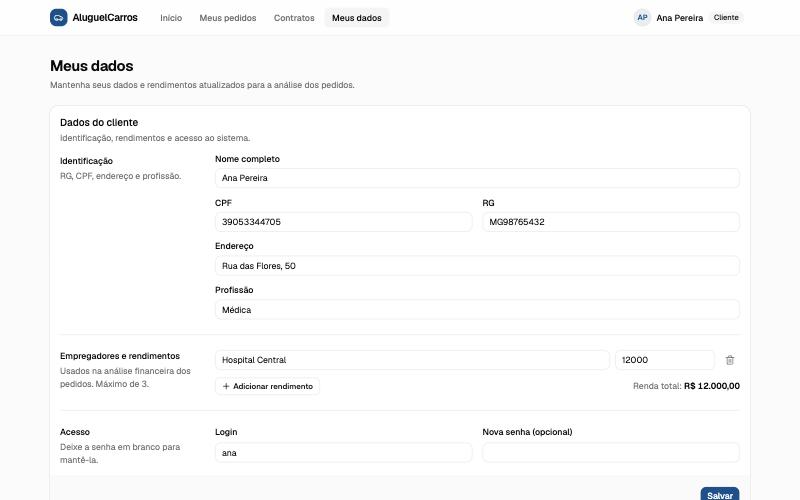
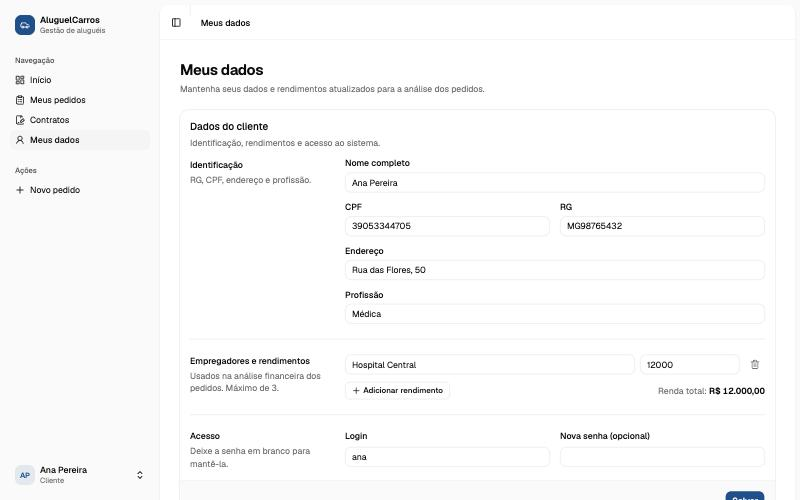
Atualiza README, diagrama de pacotes e capturas com o novo layout

diff --git a/README.md b/README.md
@@ -100,7 +100,9 @@ stateDiagram-v2
 - 📊 **Análise financeira:** agentes filtram os pedidos por status e aprovam/reprovam com parecer, vendo a renda total e os rendimentos do cliente.
 - 📃 **Contratos:** execução do contrato de pedidos aprovados, registrando o automóvel em nome do cliente, da empresa ou do banco.
 - 🏦 **Contrato de crédito:** bancos concedem crédito ao contrato; a parcela é calculada pela Tabela Price.
-- 🏠 **Painel inicial:** resumo de pedidos por status e atalhos para as ações de cada perfil.
+- 📊 **Painel inicial (dashboard):** indicadores (pedidos, valor contratado e financiado) e gráficos de pedidos por status e de contratos por mês.
+- 🧭 **Linha do tempo do pedido:** etapas criação → análise → contrato → crédito, com datas e responsáveis.
+- 🗂 **Navegação lateral:** barra lateral recolhível com ícones por seção (gaveta no celular).
 
 ---
 
@@ -115,6 +117,7 @@ stateDiagram-v2
 * **Estilização:** Tailwind CSS 4
 * **Componentes de interface:** [shadcn/ui](https://ui.shadcn.com/) (Radix UI) — Button, Card, Table, Tabs, Badge, Alert, AlertDialog, RadioGroup, DropdownMenu
 * **Ícones e notificações:** Lucide React e Sonner (toasts)
+* **Gráficos:** Recharts (componente Chart do shadcn/ui)
 * **Gerenciamento de Estado:** Context API (`AuthProvider`)
 * **Build Tool:** Vite 6
 
@@ -396,6 +399,7 @@ java -jar target/aluguel-carros-0.0.1-SNAPSHOT.jar
         ├── /components                # 🧱 Componentes reutilizáveis
         │   └── /ui                    # 🎨 Componentes shadcn/ui (Button, Card, Table...)
         ├── /lib                       # 🔧 utils (função cn do shadcn/ui)
+        ├── /hooks                     # 🎣 use-mobile (usado pela barra lateral)
         ├── /context                   # 🔐 Autenticação (Context API)
         ├── /routes                    # 🧭 Rotas públicas e protegidas
         ├── /services                  # 🔌 Chamadas HTTP (Axios)
@@ -410,16 +414,16 @@ java -jar target/aluguel-carros-0.0.1-SNAPSHOT.jar
 
 | Tela | Captura de Tela |
 | :---: | :---: |
-| **Login** | **Painel inicial (Banco)** |
+| **Login** | **Painel inicial com gráficos (Banco)** |
 | <img src="docs/imagens/login.jpg" alt="Tela de login" width="400px"> | <img src="docs/imagens/home-agente.jpg" alt="Painel inicial do agente" width="400px"> |
-| **Pedidos (visão do agente)** | **Detalhe do pedido com parecer** |
+| **Pedidos (visão do agente)** | **Detalhe do pedido (linha do tempo)** |
 | <img src="docs/imagens/pedidos-agente.jpg" alt="Lista de pedidos com filtros por status" width="400px"> | <img src="docs/imagens/pedido-detalhe.jpg" alt="Detalhe do pedido" width="400px"> |
 | **Contrato e crédito** | **Contratos** |
 | <img src="docs/imagens/contrato-credito.jpg" alt="Contrato com crédito concedido" width="400px"> | <img src="docs/imagens/contratos.jpg" alt="Lista de contratos" width="400px"> |
 | **Novo pedido (cliente)** | **Meus dados e rendimentos (cliente)** |
 | <img src="docs/imagens/novo-pedido.jpg" alt="Novo pedido de aluguel" width="400px"> | <img src="docs/imagens/meus-dados.jpg" alt="Dados e rendimentos do cliente" width="400px"> |
-| **Automóveis (agente)** | |
-| <img src="docs/imagens/automoveis.jpg" alt="Cadastro de automóveis" width="400px"> | |
+| **Automóveis (agente)** | **Avaliação de pedido pendente** |
+| <img src="docs/imagens/automoveis.jpg" alt="Cadastro de automóveis" width="400px"> | <img src="docs/imagens/pedido-avaliacao.jpg" alt="Pedido pendente aguardando parecer" width="400px"> |
 
 ### 💻 Exemplo de Saída no Terminal (API)
 
